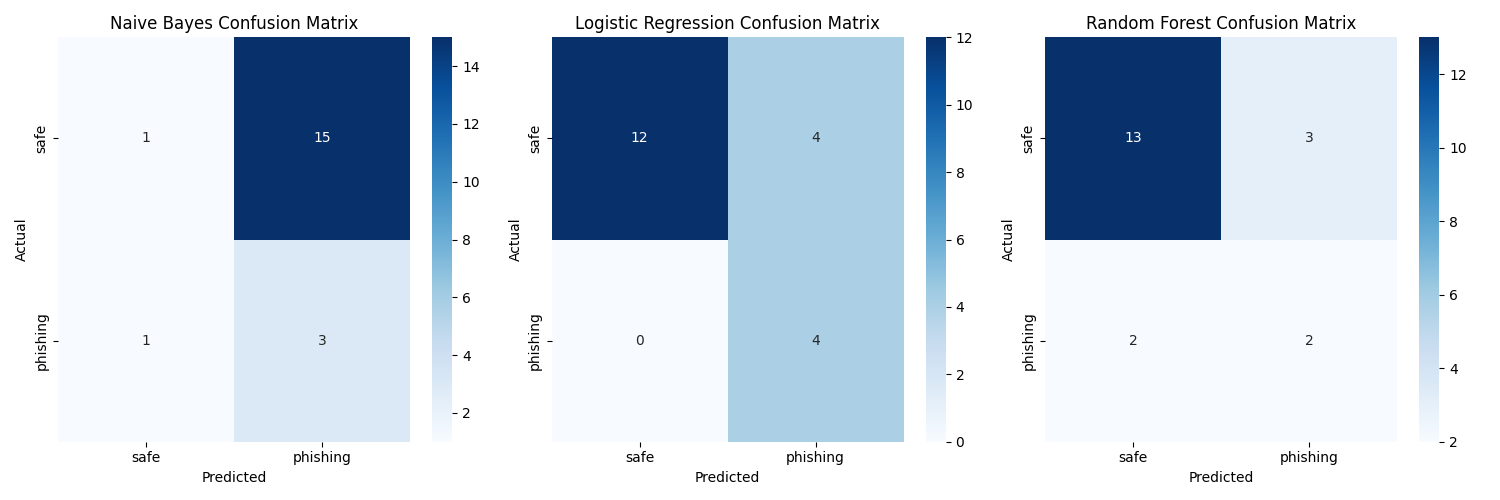
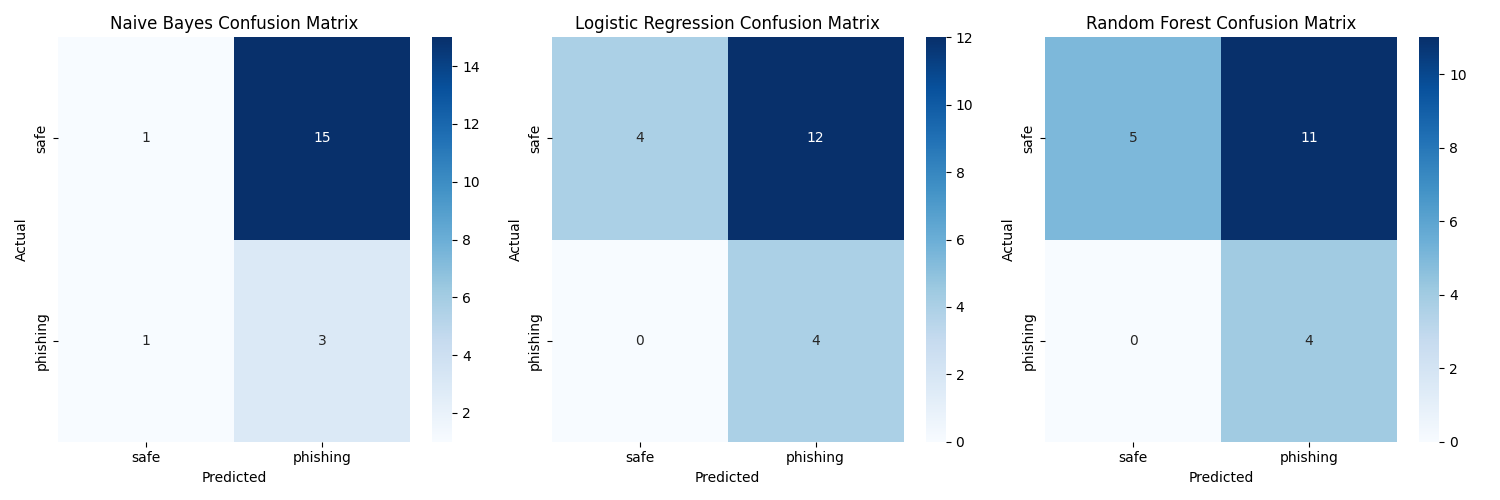
Cleaned repo to core files with cross-validation and enhanced detection

Changed region(s): [[0.6747, 0.06, 0.9813, 0.9], [0.368, 0.06, 0.6133, 0.48]]

diff --git a/train_phishing_detector_semi.py b/train_phishing_detector_semi.py
@@ -5,7 +5,7 @@ from sklearn.feature_extraction.text import CountVectorizer
 from sklearn.naive_bayes import MultinomialNB
 from sklearn.linear_model import LogisticRegression
 from sklearn.ensemble import RandomForestClassifier
-from sklearn.model_selection import train_test_split
+from sklearn.model_selection import train_test_split, cross_val_score
 from sklearn.metrics import precision_score, recall_score, f1_score, confusion_matrix
 import matplotlib.pyplot as plt
 import seaborn as sns
@@ -13,30 +13,24 @@ import seaborn as sns
 # Load Data
 data_path = os.path.join(os.path.expanduser('~'), 'Documents', 'ml_projects', 'enron_auto_labeled.csv')
 print(f"Loading data from: {data_path}")
-
 if not os.path.exists(data_path):
     print(f"Error: File not found at {data_path}")
     exit(1)
-
 emails = pd.read_csv(data_path)
 print("Data loaded. Columns:", emails.columns.tolist())
-
-# Check required columns
 if 'text' not in emails.columns or 'label' not in emails.columns:
     print("Error: 'text' or 'label' column missing")
     exit(1)
-
-# Handle NaN
 emails['text'] = emails['text'].fillna('')
 
 # Feature Engineering
 def extract_subject(text):
     match = re.search(r'Subject: (.*?)\n', text)
     return match.group(1) if match else ''
-
 emails['subject'] = emails['text'].apply(extract_subject)
 emails['urgency'] = emails['text'].apply(lambda x: 1 if any(word in x.lower() for word in ['urgent', 'now', 'immediately']) else 0) * 100
 emails['url'] = emails['text'].apply(lambda x: 1 if re.search(r'http[s]?://|www\.', x.lower()) else 0) * 100
+emails['phish_keywords'] = emails['text'].apply(lambda x: sum(x.lower().count(word) for word in ['urgent', 'act', 'quick']) > 0) * 100  # New feature
 emails['word_count'] = emails['text'].apply(lambda x: len(x.split()))
 emails['combined'] = emails['text'] + ' ' + emails['subject']
 
@@ -46,10 +40,11 @@ X_text = vectorizer.fit_transform(emails['combined'])
 X = pd.DataFrame(X_text.toarray(), columns=vectorizer.get_feature_names_out())
 X['urgency'] = emails['urgency']
 X['url'] = emails['url']
+X['phish_keywords'] = emails['phish_keywords']
 X['word_count'] = emails['word_count']
 y = emails['label']
 
-# Split into training and testing
+# Split for single-run metrics and prediction
 X_train, X_test, y_train, y_test = train_test_split(X, y, test_size=0.2, random_state=42)
 
 # Models
@@ -59,12 +54,16 @@ models = {
     'Random Forest': RandomForestClassifier(n_estimators=100, random_state=42)
 }
 
-# Train and evaluate
+# Train and evaluate with cross-validation
 results = {}
-threshold = 0.5  # Default threshold
+threshold = 0.1
 for name, model in models.items():
+    scores = cross_val_score(model, X, y, cv=5, scoring='accuracy')
+    print(f"\n{name} Results:")
+    print(f"CV Accuracy: {scores.mean():.2f} (+/- {scores.std() * 2:.2f})")
     model.fit(X_train, y_train)
-    y_pred = model.predict(X_test)
+    y_prob = model.predict_proba(X_test)[:, list(model.classes_).index('phishing')]
+    y_pred = ['phishing' if p >= threshold else 'safe' for p in y_prob]
     results[name] = {
         'Accuracy': (y_pred == y_test).mean(),
         'Precision': precision_score(y_test, y_pred, pos_label='phishing', zero_division=0),
@@ -73,39 +72,25 @@ for name, model in models.items():
         'Confusion Matrix': confusion_matrix(y_test, y_pred, labels=['safe', 'phishing']),
         'Predictions': y_pred
     }
+    print(f"Single-Run Accuracy: {results[name]['Accuracy']:.2f}")
+    print(f"Precision: {results[name]['Precision']:.2f}")
+    print(f"Recall: {results[name]['Recall']:.2f}")
+    print(f"F1-Score: {results[name]['F1']:.2f}")
+    print(f"Confusion Matrix:\n{results[name]['Confusion Matrix']}")
 
-# Print and save results
-output_dir = os.path.expanduser('~/Documents/ml_projects')
-results_file = os.path.join(output_dir, 'results_v3_semi.txt')
-with open(results_file, 'w') as f:
-    for name, metrics in results.items():
-        print(f"\n{name} Results:")
-        print(f"Accuracy: {metrics['Accuracy']:.2f}")
-        print(f"Precision: {metrics['Precision']:.2f}")
-        print(f"Recall: {metrics['Recall']:.2f}")
-        print(f"F1-Score: {metrics['F1']:.2f}")
-        print(f"Confusion Matrix:\n{metrics['Confusion Matrix']}")
-        f.write(f"{name} Results:\n")
-        f.write(f"Accuracy: {metrics['Accuracy']:.2f}\n")
-        f.write(f"Precision: {metrics['Precision']:.2f}\n")
-        f.write(f"Recall: {metrics['Recall']:.2f}\n")
-        f.write(f"F1-Score: {metrics['F1']:.2f}\n")
-        f.write(f"Confusion Matrix:\n{metrics['Confusion Matrix']}\n\n")
-
+# Predict a new email
 # Predict a new email
 new_email_text = 'urgent act now get rich quick http://example.com'
 new_email = vectorizer.transform([new_email_text]).toarray()
 new_features = pd.DataFrame(new_email, columns=vectorizer.get_feature_names_out())
 new_features['urgency'] = 1 * 100
 new_features['url'] = 1 * 100
+new_features['phish_keywords'] = 1 * 100
 new_features['word_count'] = len(new_email_text.split())
 for name, model in models.items():
-    pred = model.predict(new_features)[0]
-    if name != 'Naive Bayes':
-        prob = model.predict_proba(new_features)[0, list(model.classes_).index('phishing')]
-        print(f"{name} Prediction for '{new_email_text}': {pred} (Phishing prob: {prob:.4f})")
-    else:
-        print(f"{name} Prediction for '{new_email_text}': {pred}")
+    prob = model.predict_proba(new_features)[0, list(model.classes_).index('phishing')]
+    pred = 'phishing' if prob >= 0.05 else 'safe'  # Use 0.05 threshold
+    print(f"{name} Prediction for '{new_email_text}': {pred} (Phishing prob: {prob:.4f})")
 
 # Save predictions
 predictions_df = pd.DataFrame({
@@ -115,6 +100,7 @@ predictions_df = pd.DataFrame({
     'Logistic Regression': results['Logistic Regression']['Predictions'],
     'Random Forest': results['Random Forest']['Predictions']
 })
+output_dir = os.path.expanduser('~/Documents/ml_projects')
 predictions_file = os.path.join(output_dir, 'enron_predictions_v3_semi.csv')
 predictions_df.to_csv(predictions_file, index=False)
 print(f"Predictions saved to: {predictions_file}")
